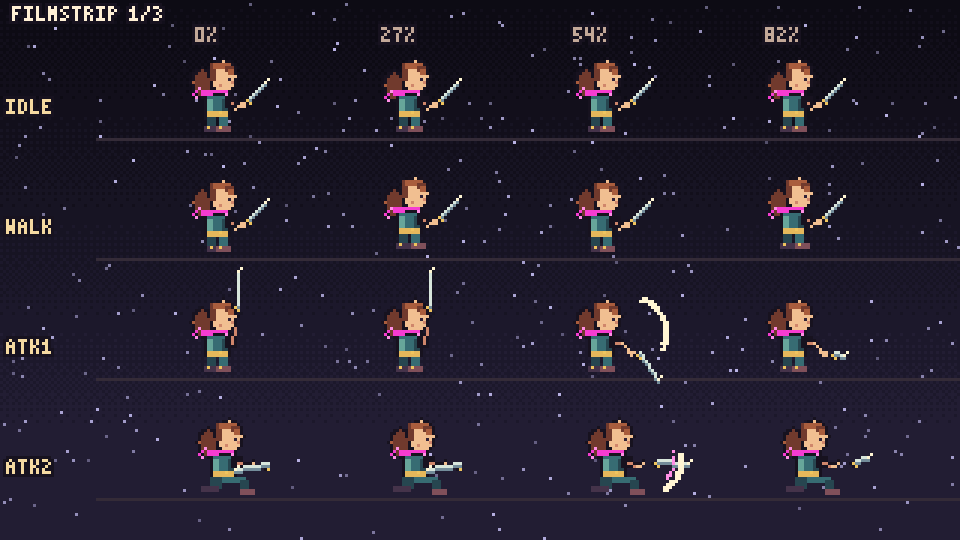
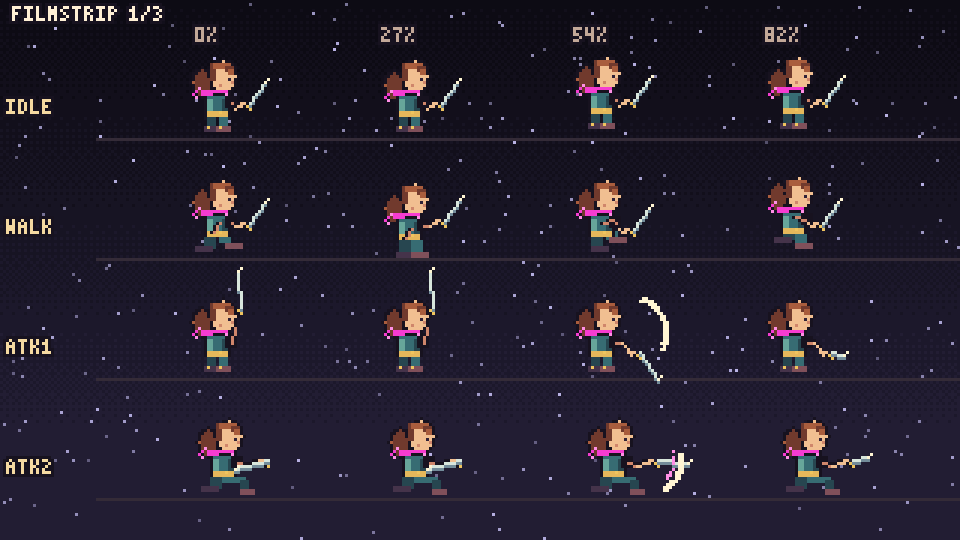
Anchor heroine sword and animate walk cycle

diff --git a/src/game/heroine/heroine.js b/src/game/heroine/heroine.js
@@ -10,6 +10,7 @@
 //   update(dt)
 //   draw(frame)                  draws with pixelfx painterFor(frame)
 //   reach                        px in front of her feet where a sword hit lands
+//   heroinePose(anim, elapsed) and swordPose(anim, progress, hand, seated) are pixel-coordinate helpers for tests.
 
 import { hex, painterFor } from "pixelfx/core/index.js";
 
@@ -36,7 +37,7 @@ const smooth = (n) => { n = clamp01(n); return n * n * (3 - 2 * n); };
 
 // A tiny pixel canvas keeps the heroine's silhouette crisp at the stage's native resolution.
 function makeBody(anim, t) {
-  const w = 25, h = 28, px = Array.from({ length: h }, () => Array(w).fill("."));
+  const w = 32, h = 28, px = Array.from({ length: h }, () => Array(w).fill("."));
   const put = (x, y, c) => { if (x >= 0 && y >= 0 && x < w && y < h) px[y][x] = c; };
   const rect = (x, y, rw, rh, c) => { for (let j = 0; j < rh; j++) for (let i = 0; i < rw; i++) put(x + i, y + j, c); };
   const ellipse = (cx, cy, rx, ry, c) => {
@@ -51,8 +52,8 @@ function makeBody(anim, t) {
   };
 
   const walk = anim === "walk", seated = anim === "sit" || (anim === "sitDown" && t >= 0.24) || (anim === "standUp" && t < 0.24);
-  const phase = Math.floor(t * 12) & 1;
-  const bob = walk ? (phase & 1 ? -1 : 0) : anim === "idle" || anim === "sit" ? (phase >= 2 ? -1 : 0) : 0;
+  const phase = Math.floor(t * 12) & 3;
+  const bob = walk ? [0, 1, 0, -1][phase] : anim === "idle" || anim === "sit" ? (phase >= 2 ? -1 : 0) : 0;
   const attackProgress = ONE_SHOTS[anim] ? clamp01(t / ONE_SHOTS[anim].duration) : 0;
   const lean = anim === "attack2" ? 2 : anim === "attack3" ? 3 : anim === "hurt" ? -2 : seated ? 1 : 0;
   const ox = lean;
@@ -70,13 +71,12 @@ function makeBody(anim, t) {
   };
 
   // Ponytail sits behind the head; the two tips swing on held 12 fps steps.
-  const swing = walk || anim === "idle" ? phase : 0;
+  const swing = walk ? [0, 1, 0, -1][phase] : anim === "idle" ? phase & 1 : 0;
   outlineEllipse(7 + headOx, 8 + headBob + swing, 3, 4, "hair");
   put(4 + headOx, 8 + headBob + swing, "hairL"); put(5 + headOx, 11 + headBob + swing, "hairL");
   put(6 + headOx, 12 + headBob + swing, "hair");
 
   // Legs and boots. Alternating feet make the walk loop read at a glance.
-  const step = walk ? (phase ? 1 : -1) : 0;
   if (seated) {
     // Thighs turn forward, then shins fold down to make a clear seated L shape.
     rect(8 + ox, 19 + bob, 5, 3, "tunicS"); rect(12 + ox, 20 + bob, 7, 2, "tunic");
@@ -92,12 +92,27 @@ function makeBody(anim, t) {
     rect(8 + ox, 19 + bob, 5, 3, "tunicS"); rect(13 + ox, 20 + bob, 5, 2, "tunic");
     rect(6 + ox, 22 + bob, 6, 2, "tunicS"); rect(15 + ox, 22 + bob, 6, 2, "tunic");
     rect(4 + ox, 24 + bob, 5, 2, "boot"); rect(17 + ox, 24 + bob, 5, 2, "bootL");
+  } else if (walk) {
+    // Four held gait drawings: contact, compression, pass, and the opposite high step.
+    if (phase === 0) {
+      rect(8 + ox, 19 + bob, 4, 5, "tunicS"); rect(13 + ox, 18 + bob, 4, 4, "tunic");
+      rect(5 + ox, 23 + bob, 6, 2, "boot"); rect(15 + ox, 22 + bob, 6, 2, "bootL");
+    } else if (phase === 1) {
+      rect(9 + ox, 19 + bob, 4, 5, "tunicS"); rect(13 + ox, 19 + bob, 4, 5, "tunic");
+      rect(8 + ox, 24 + bob, 6, 2, "boot"); rect(13 + ox, 24 + bob, 6, 2, "bootL");
+    } else if (phase === 2) {
+      rect(9 + ox, 19 + bob, 4, 4, "tunicS"); rect(14 + ox, 18 + bob, 4, 3, "tunic");
+      rect(9 + ox, 23 + bob, 6, 2, "boot"); rect(15 + ox, 20 + bob, 6, 2, "bootL");
+    } else {
+      rect(9 + ox, 18 + bob, 4, 4, "tunicS"); rect(13 + ox, 19 + bob, 4, 5, "tunic");
+      rect(6 + ox, 21 + bob, 6, 2, "boot"); rect(13 + ox, 23 + bob, 6, 2, "bootL");
+    }
   } else {
-    rect(9 + ox, 19 + bob, 3, 4 + Math.max(0, step), "tunicS");
-    rect(13 + ox, 19 + bob, 3, 4 + Math.max(0, -step), "tunic");
-    rect(8 + ox + Math.max(0, -step), 23 + bob, 5, 2, "boot");
-    rect(12 + ox + Math.max(0, step), 23 + bob, 5, 2, "bootL");
-    put(9 + ox + Math.max(0, -step), 23 + bob, "gold"); put(13 + ox + Math.max(0, step), 23 + bob, "gold");
+    rect(9 + ox, 19 + bob, 3, 4, "tunicS");
+    rect(13 + ox, 19 + bob, 3, 4, "tunic");
+    rect(8 + ox, 23 + bob, 5, 2, "boot");
+    rect(12 + ox, 23 + bob, 5, 2, "bootL");
+    put(9 + ox, 23 + bob, "gold"); put(13 + ox, 23 + bob, "gold");
   }
 
   // Short tunic, belt and chest highlight.
@@ -110,12 +125,18 @@ function makeBody(anim, t) {
 
   // Arm, shoulder and hand. Its angle changes with each sword beat.
   let arm = [18 + ox, 16 + bob, 20 + ox, 15 + bob];
+  if (walk) arm = [[18, 15, 20, 15], [19, 14, 21, 13], [18, 16, 20, 17], [17, 15, 19, 16]][phase].map((v, i) => v + (i % 2 ? bob : ox));
   if (anim === "attack1") arm = attackProgress < 0.42 ? [18 + ox, 8 + bob, 17 + ox, 3 + bob] : [19 + ox, 14 + bob, 22 + ox, 18 + bob];
   if (anim === "attack2") arm = [20 + ox, 15 + bob, 24 + ox, 14 + bob];
   if (anim === "attack3") arm = [21 + ox, 14 + bob, 25 + ox, 13 + bob];
   if (anim === "victory") arm = [17 + ox, 8 + bob, 18 + ox, 5 + bob];
   if (seated) arm = [17 + ox, 17 + bob, 18 + ox, 20 + bob];
   rect(15 + ox, 13 + bob, 4, 4, "k");
+  if (walk) {
+    const farArm = [[12, 15, 10, 18], [12, 16, 10, 19], [12, 15, 15, 14], [12, 14, 15, 15]][phase];
+    line(farArm[0] + ox, farArm[1] + bob, farArm[2] + ox, farArm[3] + bob, "k");
+    line(farArm[0] + ox + 1, farArm[1] + bob, farArm[2] + ox + 1, farArm[3] + bob, "skinS");
+  }
   line(17 + ox, 14 + bob, arm[0], arm[1], "k");
   line(17 + ox, 15 + bob, arm[0], arm[1] + 1, "skinS");
   line(arm[0], arm[1], arm[2], arm[3], "k");
@@ -140,7 +161,7 @@ function makeBody(anim, t) {
   // Pink scarf knot and tail flutter left in the breeze.
   rect(10 + headOx, 11 + headBob, 7, 2, "k");
   rect(11 + headOx, 11 + headBob, 5, 1, "scarf"); put(15 + headOx, 12 + headBob, "scarfL");
-  const flutter = anim === "idle" || walk ? phase : 0;
+  const flutter = walk ? [0, 1, 0, -1][phase] : anim === "idle" ? phase & 1 : 0;
   rect(7 + headOx, 11 + headBob, 4, 2, "scarf");
   put(6 + headOx, 10 + headBob + flutter, "scarfL"); put(5 + headOx, 11 + headBob + flutter, "scarf");
   put(4 + headOx, 12 + headBob + flutter, "scarf"); put(5 + headOx, 13 + headBob + flutter, "scarfL");
@@ -148,17 +169,30 @@ function makeBody(anim, t) {
   return { rows: px.map((row) => row.map((color) => PIXEL_CODE[color] ?? ".").join("")), arm };
 }
 
-function swordPose(anim, progress, arm) {
-  const handX = arm[2] + 1, handY = arm[3] + 1;
+export function heroinePose(anim, elapsed = 0) {
+  const body = makeBody(anim, elapsed);
+  const seated = anim === "sit" || (anim === "sitDown" && elapsed >= 0.24) || (anim === "standUp" && elapsed < 0.24);
+  return { rows: body.rows, arm: body.arm, hand: { x: body.arm[2] + 1, y: body.arm[3] + 1 }, seated };
+}
+
+/** Return the sword grip and tip in sprite-local pixels, anchored directly to the hand. */
+export function swordPose(anim, progress, hand, seated = false) {
+  if (seated) return null;
+  const handX = hand.x, handY = hand.y;
+  let tip;
   if (anim.startsWith("attack")) {
     const swing = progress >= 0.38 && progress < 0.72;
-    if (anim === "attack1") return progress < 0.38 ? [handX - 1, handY - 1, handX + 1, handY - 12] : swing ? [handX, handY, handX + 8, handY + 9] : [handX + 1, handY, handX + 6, handY + 1];
-    if (anim === "attack2") return progress < 0.38 ? [handX, handY + 1, handX - 9, handY + 3] : swing ? [handX, handY, handX + 12, handY + 1] : [handX + 1, handY, handX + 7, handY - 1];
-    return progress < 0.38 ? [handX - 1, handY, handX + 4, handY - 4] : swing ? [handX + 1, handY, handX + 14, handY] : [handX + 1, handY, handX + 9, handY];
+    if (anim === "attack1") tip = progress < 0.38 ? { x: handX + 1, y: handY - 12 } : swing ? { x: handX + 8, y: handY + 9 } : { x: handX + 6, y: handY + 1 };
+    else if (anim === "attack2") tip = progress < 0.38 ? { x: handX - 9, y: handY + 3 } : swing ? { x: handX + 12, y: handY + 1 } : { x: handX + 7, y: handY - 1 };
+    else tip = progress < 0.38 ? { x: handX + 4, y: handY - 4 } : swing ? { x: handX + 14, y: handY } : { x: handX + 9, y: handY };
+  } else if (anim === "victory") {
+    tip = { x: handX + 1, y: handY - 12 };
+  } else if (anim === "hurt") {
+    tip = { x: handX + 4, y: handY + 4 };
+  } else {
+    tip = { x: handX + 7, y: handY - 7 };
   }
-  if (anim === "victory") return [handX, handY, handX + 1, handY - 12];
-  if (anim === "hurt") return [handX - 2, handY + 1, handX + 4, handY + 4];
-  return [handX, handY - 2, handX + 7, handY - 7];
+  return { grip: { x: handX, y: handY }, tip };
 }
 
 function drawLyingSword(p) {
@@ -211,8 +245,8 @@ export function createHeroine({ x = 0, y = 0 } = {}) {
     draw(frame) {
       const p = painterFor(frame);
       const progress = ONE_SHOTS[anim] ? elapsed / ONE_SHOTS[anim].duration : 0;
-      const pose = makeBody(anim, loopTime);
-      const seated = anim === "sit" || (anim === "sitDown" && elapsed >= 0.24) || (anim === "standUp" && elapsed < 0.24);
+      const pose = heroinePose(anim, loopTime);
+      const seated = pose.seated;
       if (seated) {
         p.place(heroine.x, heroine.y);
         p.sprite(SIT_STUMP, PALETTE, SIT_STUMP_OFFSET_X, -8);
@@ -229,9 +263,10 @@ export function createHeroine({ x = 0, y = 0 } = {}) {
       if (seated) {
         drawLyingSword(p);
       } else {
-        const [sx, sy, ex, ey] = swordPose(anim, progress, pose.arm);
+        const weapon = swordPose(anim, progress, pose.hand, seated);
+        const { grip, tip } = weapon;
         const sword = (x, y) => [x - 12, y - 27];
-        const [hiltX, hiltY] = sword(sx, sy), [bladeX, bladeY] = sword(ex, ey);
+        const [hiltX, hiltY] = sword(grip.x, grip.y), [bladeX, bladeY] = sword(tip.x, tip.y);
         p.line(hiltX, hiltY, hiltX + 1, hiltY + 1, color("k"));
         p.line(hiltX + 1, hiltY, hiltX + 2, hiltY + 1, color("g"));
         p.line(hiltX + 2, hiltY, bladeX, bladeY, color("d"));

diff --git a/tests/heroine.test.js b/tests/heroine.test.js
@@ -1,6 +1,6 @@
 import { describe, expect, it, vi } from "vitest";
 import { createFrame, hex } from "pixelfx/core/index.js";
-import { createHeroine } from "../src/game/heroine/heroine.js";
+import { createHeroine, heroinePose, swordPose } from "../src/game/heroine/heroine.js";
 
 const ANIMS = ["idle", "walk", "attack1", "attack2", "attack3", "hurt", "victory", "sitDown", "sit", "standUp"];
 
@@ -61,5 +61,25 @@ describe("heroine", () => {
     const pixels = Array.from(frame.color);
     expect(pixels.filter((pixel) => pixel === (hex("#754a35") >>> 0)).length).toBeGreaterThan(0);
     expect(pixels.filter((pixel) => pixel === (hex("#d8e6dc") >>> 0)).length).toBeGreaterThan(0);
+  });
+
+  it("keeps the sword grip within one pixel of the hand at every animation sample", () => {
+    const durations = { attack1: 0.68, attack2: 0.72, attack3: 0.84, hurt: 0.38, victory: 0.9, sitDown: 0.65, standUp: 0.62 };
+    for (const name of ANIMS) for (const sample of [0, 0.25, 0.5, 0.75, 1]) {
+      const elapsed = (durations[name] ?? 0.34) * sample;
+      const pose = heroinePose(name, elapsed);
+      const weapon = swordPose(name, sample, pose.hand, pose.seated);
+      if (pose.seated) {
+        expect(weapon).toBeNull();
+        continue;
+      }
+      expect(Math.hypot(weapon.grip.x - pose.hand.x, weapon.grip.y - pose.hand.y)).toBeLessThanOrEqual(1);
+      expect(pose.rows[pose.hand.y][pose.hand.x]).not.toBe(".");
+    }
+  });
+
+  it("uses four distinct held drawings in the walk cycle", () => {
+    const frames = [0, 1, 2, 3].map((step) => heroinePose("walk", step / 12).rows.join(""));
+    expect(new Set(frames).size).toBe(4);
   });
 });
